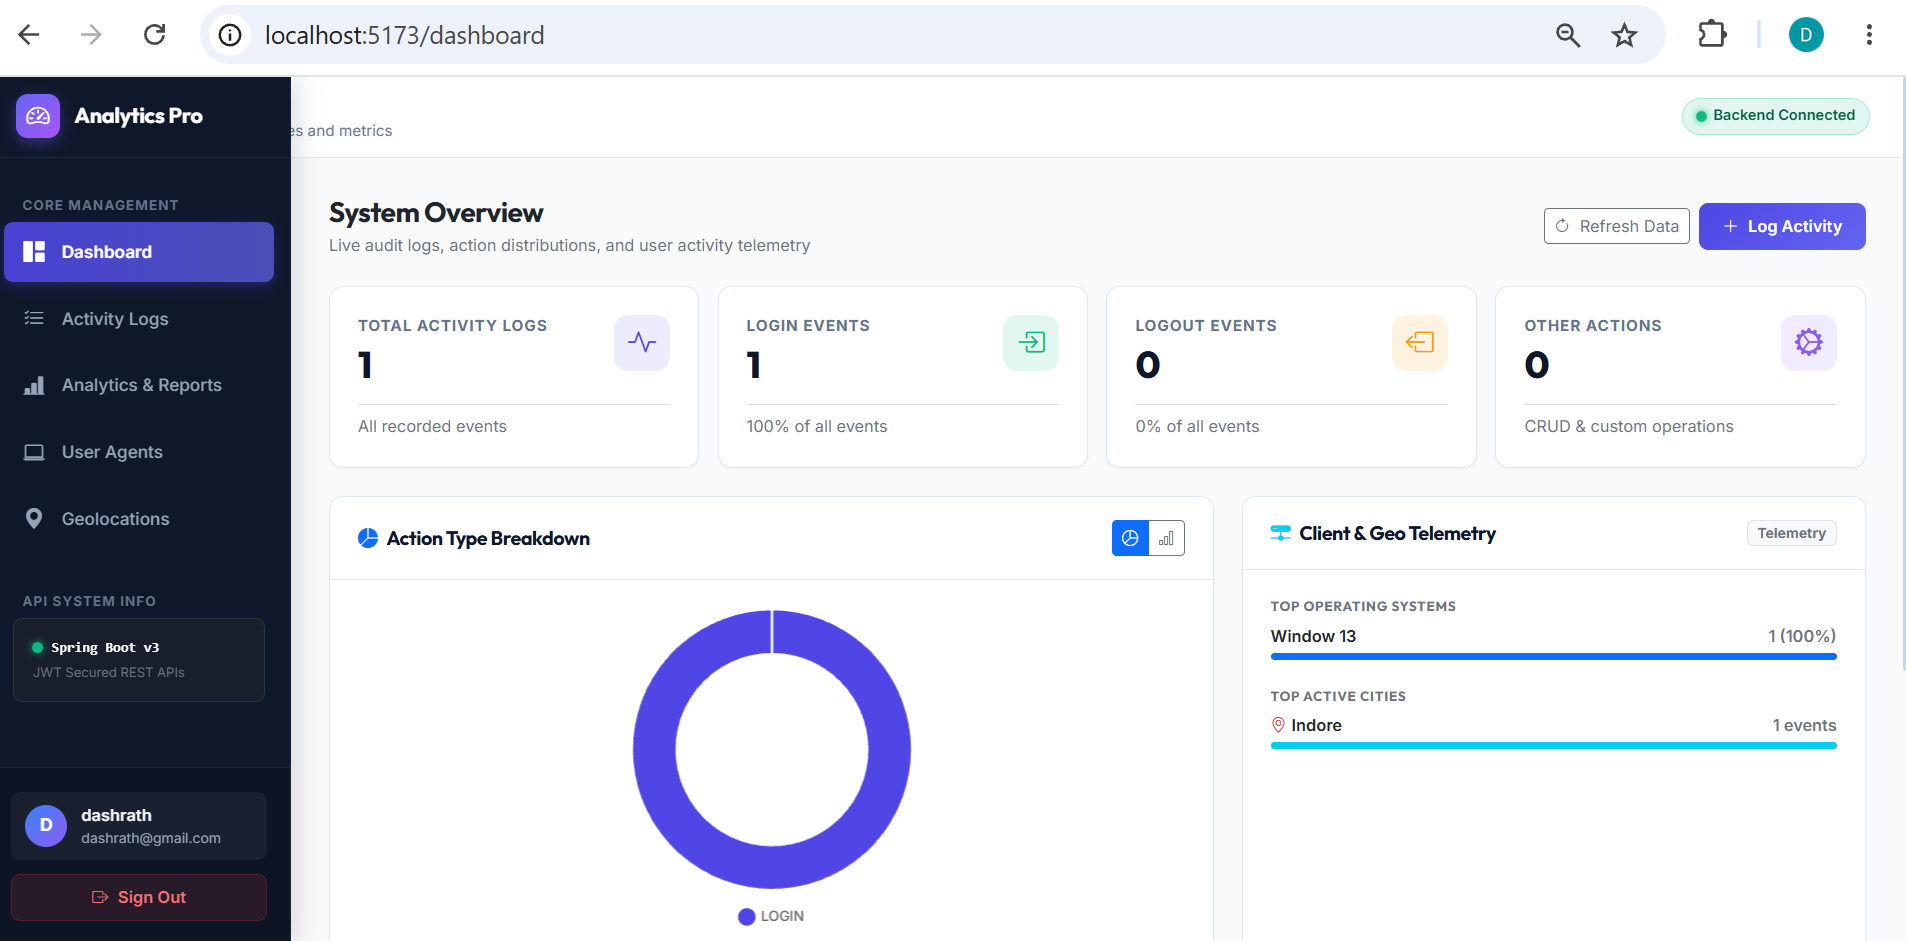
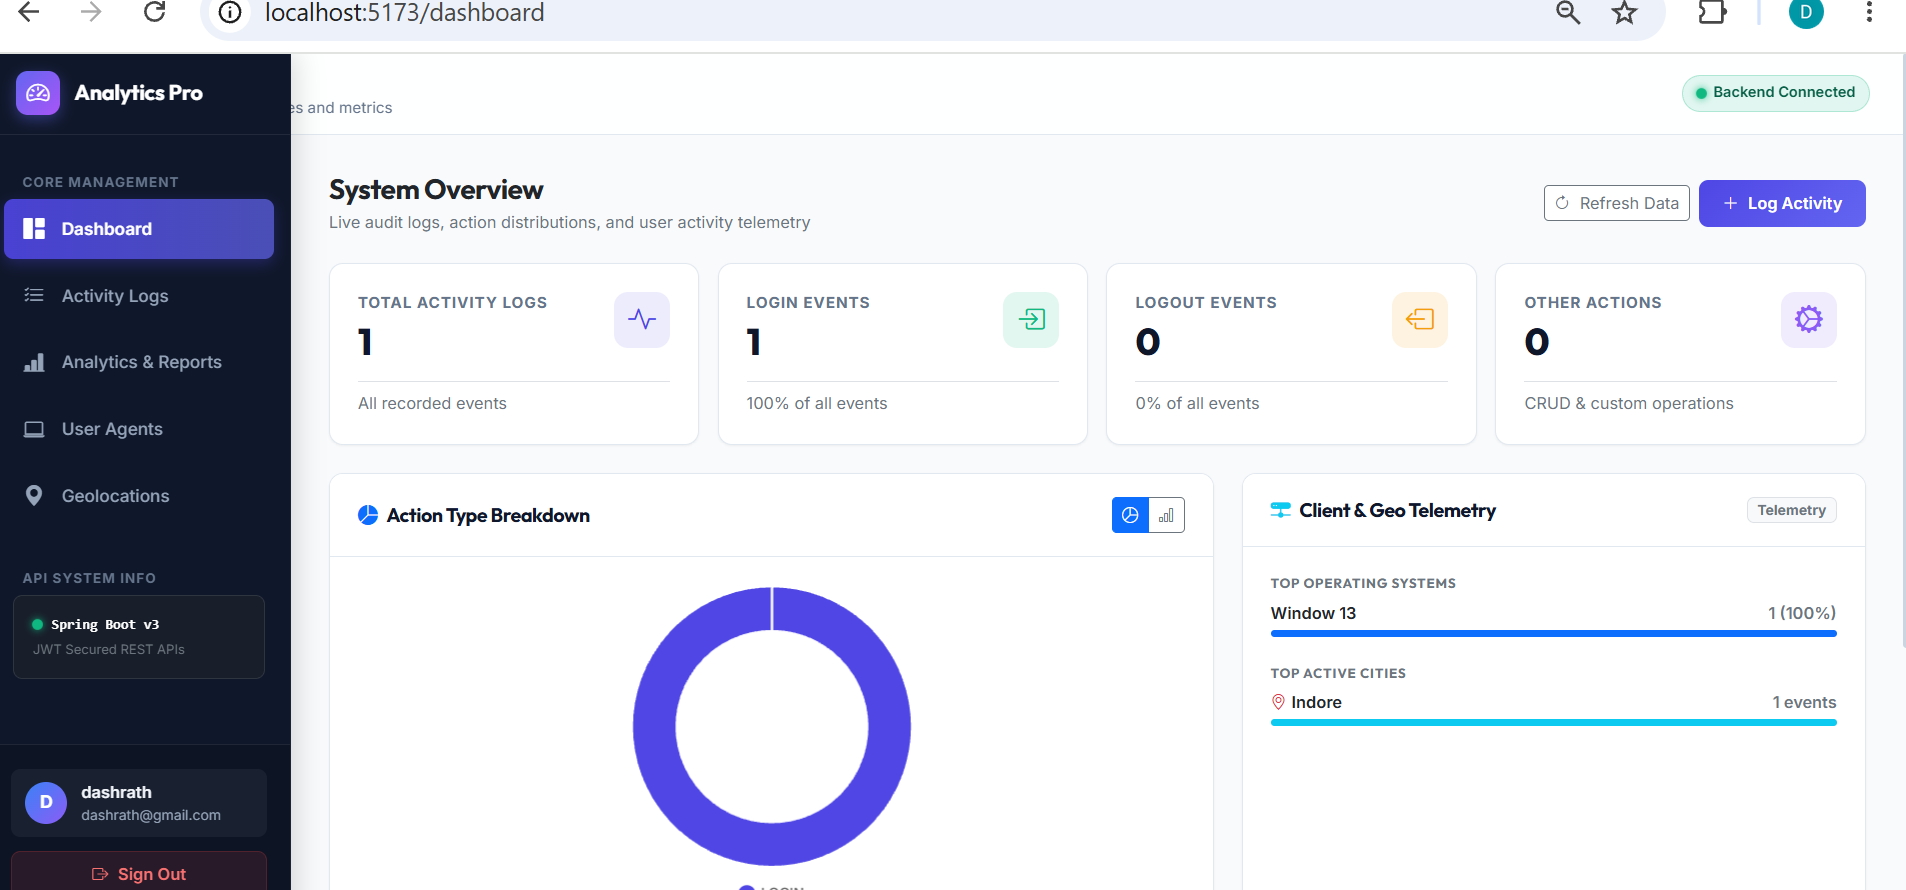
Add new changes

diff --git a/index.html b/index.html
@@ -431,8 +431,8 @@
                 <div class="button-container">
                     <a class="project-button"
                        href="https://real-time-analytics-dashboard-pqea.onrender.com"
-                       target="_blank">
-                        View Project →
+                       target="_blank">View 
+                       Project →
                     </a>
                 </div>
             </div>
